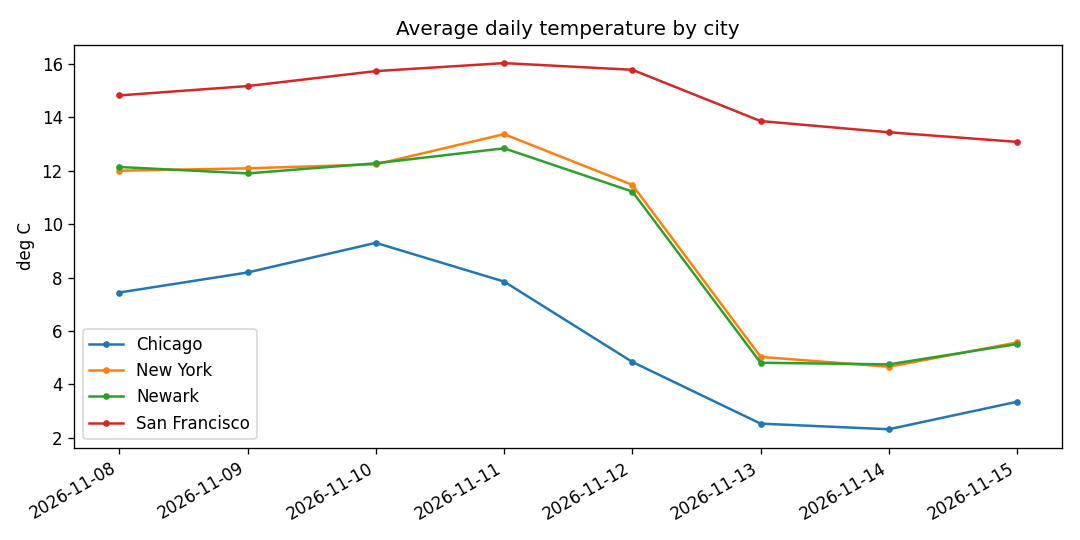
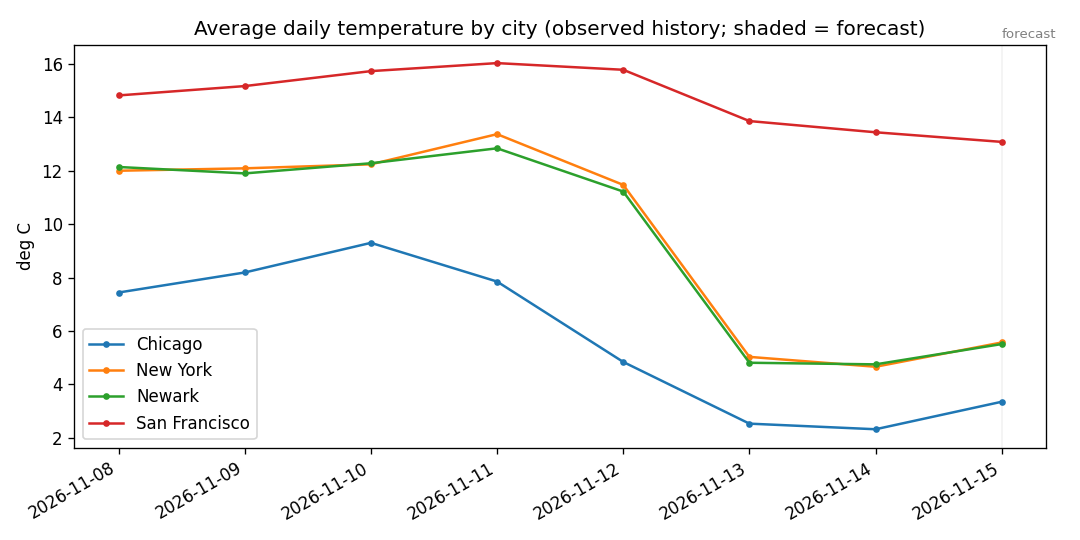
Forecast shading on dashboard chart; README badge and chart embed

diff --git a/src/weatherwh/dashboard.py b/src/weatherwh/dashboard.py
@@ -35,12 +35,14 @@ def render_markdown(con, generated_at: dt.datetime | None = None) -> str:
     return "\n".join(lines)
 
 
-def plot_avg_temp(con, out_path) -> bool:
+def plot_avg_temp(con, out_path, today: dt.date | None = None) -> bool:
     rows = con.execute(
         "SELECT day, city, avg_temp_c FROM mart_daily_city ORDER BY day"
     ).fetchall()
     if not rows:
         return False
+    today = today or dt.date.today()
+    last_day = rows[-1][0]
     by_city: dict[str, list] = {}
     for day, city, temp in rows:
         by_city.setdefault(city, []).append((day, temp))
@@ -48,7 +50,11 @@ def plot_avg_temp(con, out_path) -> bool:
     for city, points in by_city.items():
         ax.plot([p[0] for p in points], [p[1] for p in points], marker="o",
                 markersize=3, label=city)
-    ax.set_title("Average daily temperature by city")
+    if today <= last_day:
+        ax.axvspan(today, last_day, color="grey", alpha=0.10)
+        ax.annotate("forecast", xy=(today, ax.get_ylim()[1]), xytext=(0, 4),
+                    textcoords="offset points", fontsize=8, color="grey")
+    ax.set_title("Average daily temperature by city (observed history; shaded = forecast)")
     ax.set_ylabel("deg C")
     ax.legend()
     fig.autofmt_xdate()

diff --git a/README.md b/README.md
@@ -1,5 +1,9 @@
 # Weather Warehouse
 
+![tests](https://github.com/vinithaappanna/weather-warehouse/actions/workflows/tests.yml/badge.svg)
+
+![Average daily temperature by city](reports/avg_temp_by_city.png)
+
 A small but real data engineering pipeline: hourly weather for four U.S. cities
 flows from the [Open-Meteo](https://open-meteo.com/) API (free, no key) into a
 local [DuckDB](https://duckdb.org/) warehouse with layered models, data quality
@@ -39,7 +43,9 @@ python -m pytest                 # offline test suite (in-memory DuckDB)
 
 `daily_update.py` exits non-zero if any data quality check fails, so a bad
 ingest is loud instead of silent. Re-runs are idempotent: already-loaded
-city/hour rows are skipped.
+city/hour rows are skipped. The latest dashboard lives at
+[reports/dashboard.md](reports/dashboard.md); forecast days are shaded on the
+chart so observed history and forecasts are never confused.
 
 ## Why DuckDB
 

diff --git a/reports/dashboard.md b/reports/dashboard.md
@@ -1,6 +1,6 @@
 # Weather Warehouse - daily dashboard
 
-Generated 2026-11-15 19:51 UTC.
+Generated 2026-11-15 19:56 UTC.
 
 | city | day | avg_temp_c | min_temp_c | max_temp_c | total_precip_mm | max_wind_kmh | hours_observed |
 | --- | --- | --- | --- | --- | --- | --- | --- |
